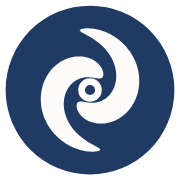
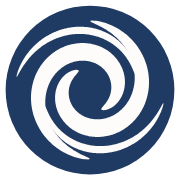
Rework the cyclone toward the reference, round the photo corners
The cyclone now runs closer to 1.6 turns with tighter concentric bands,
a pair of outer wisps and a larger eye, matching the character of the
sixth reference tile. Still drawn from scratch rather than traced, since
the reference sheet is watermarked stock.

Homepage photo gets a 10px corner radius: enough to soften the corners,
not enough to stop reading as a rectangle.

Claude-Session: https://claude.ai/code/session_01G3Y5LjD8WNwe4QrytuNk3e

Changed region(s): [[0.0833, 0.1111, 0.9167, 0.8889]]

diff --git a/assets/css/main.scss b/assets/css/main.scss
@@ -152,7 +152,7 @@ img { max-width: 100%; height: auto; }
 .home-intro { display: flex; gap: 2.8em; align-items: flex-start; }
 .home-left { flex-shrink: 0; width: 250px; }
 .home-photo { width: 100%; }
-.home-photo img { width: 100%; aspect-ratio: 3 / 4; object-fit: cover; object-position: center top; border-radius: 2px; display: block; }
+.home-photo img { width: 100%; aspect-ratio: 3 / 4; object-fit: cover; object-position: center top; border-radius: 10px; display: block; }
 
 .home-location { display: flex; align-items: center; font-family: $modern-sans; font-size: 0.95em;
   margin: 1.1em 0 0; color: var(--global-text-color); }
